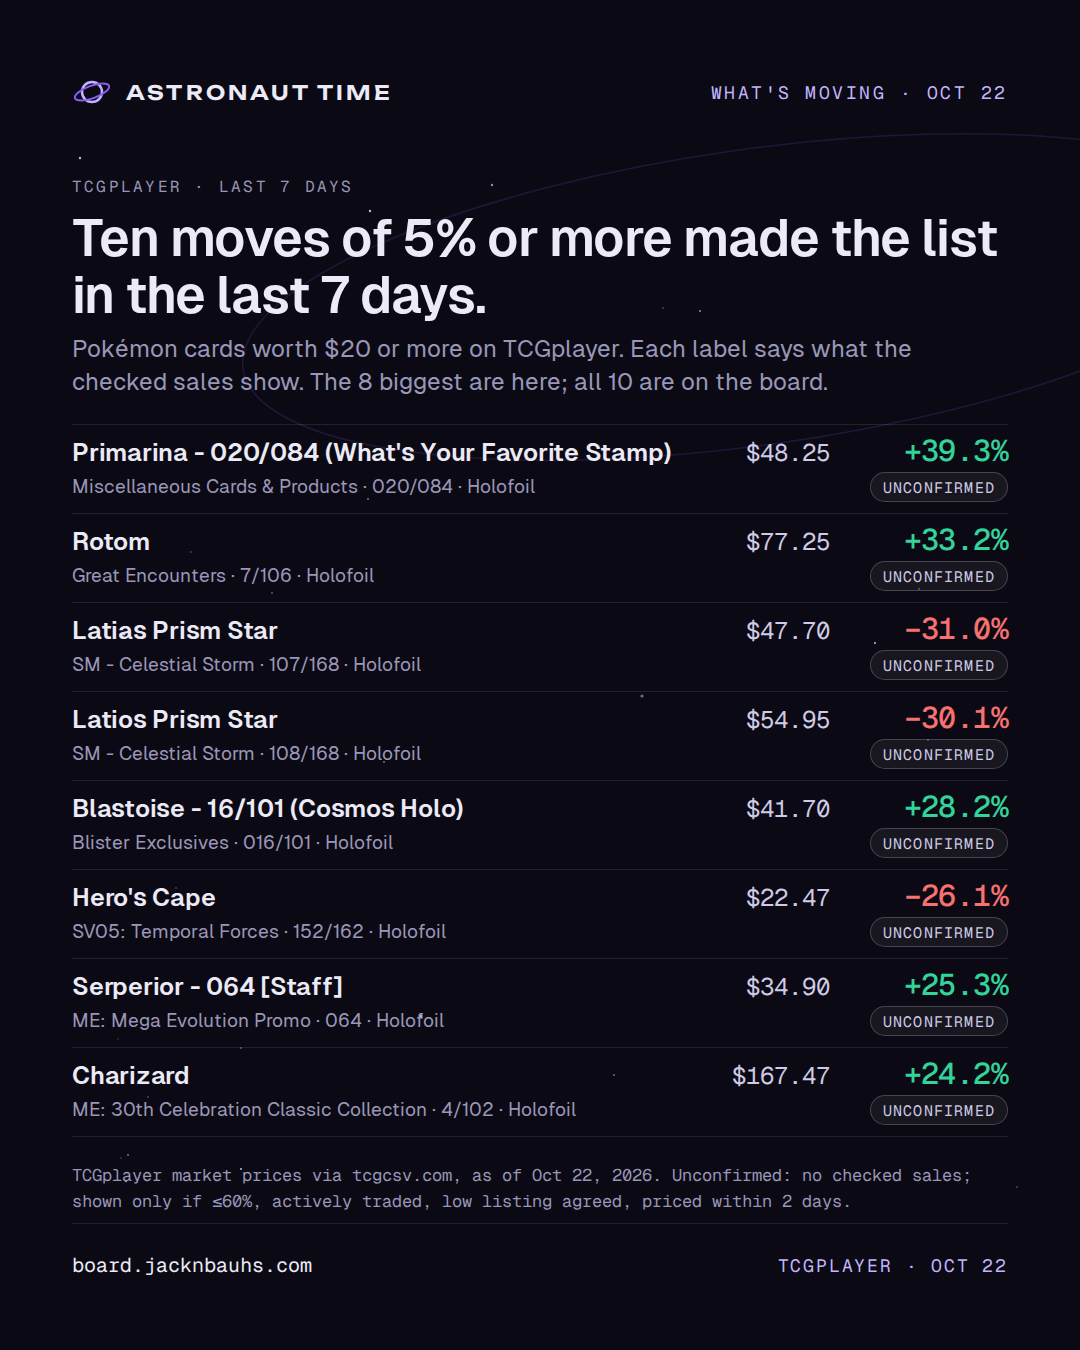
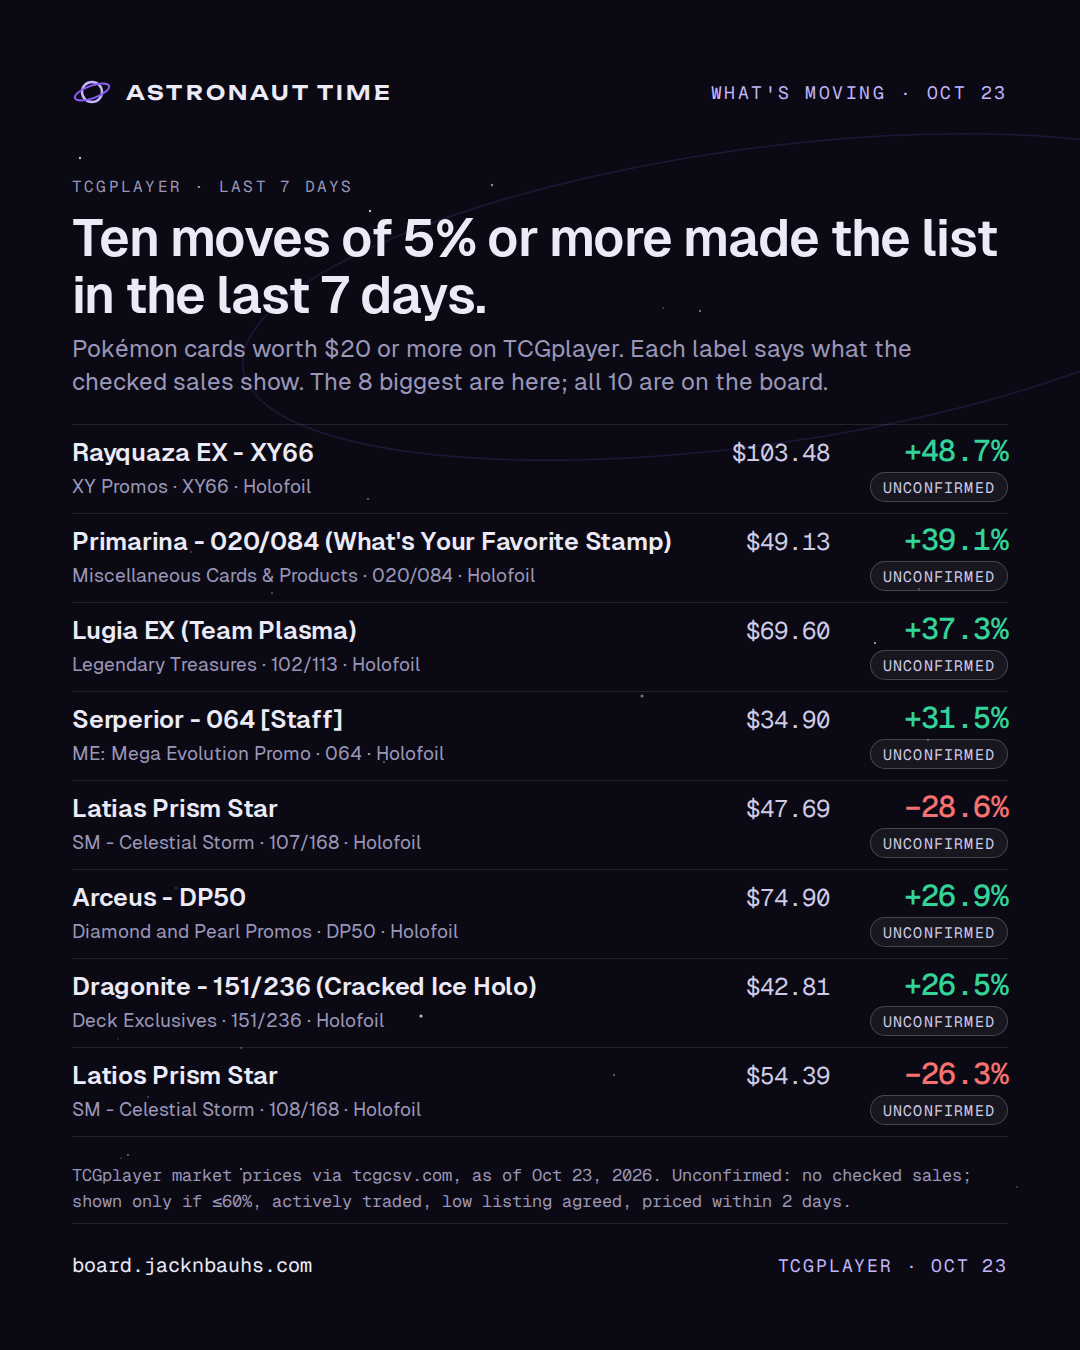
Share kit: render 2026-10-24

diff --git a/card.html b/card.html
@@ -10,14 +10,14 @@
 <meta property="og:url" content="https://board.jacknbauhs.com/card.html">
 <meta property="og:type" content="website">
 <meta property="og:site_name" content="Astronaut Time">
-<meta property="og:image" content="https://board.jacknbauhs.com/assets/og.png?v=2026-10-23">
+<meta property="og:image" content="https://board.jacknbauhs.com/assets/og.png?v=2026-10-24">
 <meta property="og:image:width" content="1200">
 <meta property="og:image:height" content="630">
 <meta property="og:image:alt" content="Mission Control by Astronaut Time: the card market, with the fake sales taken out.">
 <meta name="twitter:card" content="summary_large_image">
 <meta name="twitter:title" content="Card · Mission Control · Astronaut Time">
 <meta name="twitter:description" content="The card market, with the fake sales taken out.">
-<meta name="twitter:image" content="https://board.jacknbauhs.com/assets/og.png?v=2026-10-23">
+<meta name="twitter:image" content="https://board.jacknbauhs.com/assets/og.png?v=2026-10-24">
 <meta name="theme-color" content="#0B0A14">
 <link rel="icon" href="assets/favicon.svg" type="image/svg+xml">
 <link rel="preconnect" href="https://fonts.googleapis.com">

diff --git a/404.html b/404.html
@@ -10,14 +10,14 @@
 <meta property="og:url" content="https://board.jacknbauhs.com/">
 <meta property="og:type" content="website">
 <meta property="og:site_name" content="Astronaut Time">
-<meta property="og:image" content="https://board.jacknbauhs.com/assets/og.png?v=2026-10-23">
+<meta property="og:image" content="https://board.jacknbauhs.com/assets/og.png?v=2026-10-24">
 <meta property="og:image:width" content="1200">
 <meta property="og:image:height" content="630">
 <meta property="og:image:alt" content="Mission Control by Astronaut Time: the card market, with the fake sales taken out.">
 <meta name="twitter:card" content="summary_large_image">
 <meta name="twitter:title" content="Mission Control · Astronaut Time">
 <meta name="twitter:description" content="The card market, with the fake sales taken out.">
-<meta name="twitter:image" content="https://board.jacknbauhs.com/assets/og.png?v=2026-10-23">
+<meta name="twitter:image" content="https://board.jacknbauhs.com/assets/og.png?v=2026-10-24">
 <meta name="theme-color" content="#0B0A14">
 <link rel="icon" href="/assets/favicon.svg" type="image/svg+xml">
 <link rel="preconnect" href="https://fonts.googleapis.com">

diff --git a/index.html b/index.html
@@ -10,14 +10,14 @@
 <meta property="og:url" content="https://board.jacknbauhs.com/">
 <meta property="og:type" content="website">
 <meta property="og:site_name" content="Astronaut Time">
-<meta property="og:image" content="https://board.jacknbauhs.com/assets/og.png?v=2026-10-23">
+<meta property="og:image" content="https://board.jacknbauhs.com/assets/og.png?v=2026-10-24">
 <meta property="og:image:width" content="1200">
 <meta property="og:image:height" content="630">
 <meta property="og:image:alt" content="Mission Control by Astronaut Time: the card market, with the fake sales taken out.">
 <meta name="twitter:card" content="summary_large_image">
 <meta name="twitter:title" content="Mission Control · Astronaut Time">
 <meta name="twitter:description" content="The card market, with the fake sales taken out.">
-<meta name="twitter:image" content="https://board.jacknbauhs.com/assets/og.png?v=2026-10-23">
+<meta name="twitter:image" content="https://board.jacknbauhs.com/assets/og.png?v=2026-10-24">
 <meta name="theme-color" content="#0B0A14">
 <link rel="icon" href="assets/favicon.svg" type="image/svg+xml">
 <link rel="preconnect" href="https://fonts.googleapis.com">

diff --git a/share/out/captions.md b/share/out/captions.md
@@ -1,10 +1,10 @@
-# Captions, board data of 2026-10-23
+# Captions, board data of 2026-10-24
 
 One block per image. Caption first, alt text second. Plain facts, the source and the board link; nothing here is a buy.
 
 ## Before you post
 
-- ✅ Prices are from Oct 22, 2026.
+- ✅ Prices are from Oct 23, 2026.
 - ⚠ All 10 on the 7-day list are unconfirmed: no checked sale behind any. Keep "unconfirmed" in the post and call them price moves, not sales.
 - ⚠ All 10 on the since-yesterday list are unconfirmed: no checked sale behind any. Keep "unconfirmed" in the post and call them price moves, not sales.
 
@@ -46,6 +46,6 @@ Alt: Three calls on the record. Number 001: The 30th Celebration Booster Bundle'
 
 ## moving-2026-W43.png
 
-What's moving on TCGplayer, as of Oct 22, 2026. Ten moves of 5% or more made the list in the last 7 days. Primarina - 020/084 (What's Your Favorite Stamp) (Miscellaneous Cards & Products · 020/084 · Holofoil): $48.25, +39.3%, unconfirmed. Rotom (Great Encounters · 7/106 · Holofoil): $77.25, +33.2%, unconfirmed. Latias Prism Star (SM - Celestial Storm · 107/168 · Holofoil): $47.70, −31.0%, unconfirmed. Latios Prism Star (SM - Celestial Storm · 108/168 · Holofoil): $54.95, −30.1%, unconfirmed. Blastoise - 16/101 (Cosmos Holo) (Blister Exclusives · 016/101 · Holofoil): $41.70, +28.2%, unconfirmed. Hero's Cape (SV05: Temporal Forces · 152/162 · Holofoil): $22.47, −26.1%, unconfirmed. Serperior - 064 [Staff] (ME: Mega Evolution Promo · 064 · Holofoil): $34.90, +25.3%, unconfirmed. Charizard (ME: 30th Celebration Classic Collection · 4/102 · Holofoil): $167.47, +24.2%, unconfirmed. Unconfirmed: no checked sales; shown only if ≤60%, actively traded, low listing agreed, priced within 2 days. Source: TCGplayer market prices via tcgcsv.com, as of Oct 22, 2026. board.jacknbauhs.com
+What's moving on TCGplayer, as of Oct 23, 2026. Ten moves of 5% or more made the list in the last 7 days. Rayquaza EX - XY66 (XY Promos · XY66 · Holofoil): $103.48, +48.7%, unconfirmed. Primarina - 020/084 (What's Your Favorite Stamp) (Miscellaneous Cards & Products · 020/084 · Holofoil): $49.13, +39.1%, unconfirmed. Lugia EX (Team Plasma) (Legendary Treasures · 102/113 · Holofoil): $69.60, +37.3%, unconfirmed. Serperior - 064 [Staff] (ME: Mega Evolution Promo · 064 · Holofoil): $34.90, +31.5%, unconfirmed. Latias Prism Star (SM - Celestial Storm · 107/168 · Holofoil): $47.69, −28.6%, unconfirmed. Arceus - DP50 (Diamond and Pearl Promos · DP50 · Holofoil): $74.90, +26.9%, unconfirmed. Dragonite - 151/236 (Cracked Ice Holo) (Deck Exclusives · 151/236 · Holofoil): $42.81, +26.5%, unconfirmed. Latios Prism Star (SM - Celestial Storm · 108/168 · Holofoil): $54.39, −26.3%, unconfirmed. Unconfirmed: no checked sales; shown only if ≤60%, actively traded, low listing agreed, priced within 2 days. Source: TCGplayer market prices via tcgcsv.com, as of Oct 23, 2026. board.jacknbauhs.com
 
 Alt: What's moving: the 8 biggest of the 10 TCGplayer moves on the list in the last 7 days, each with its market price, its change and the label for what checked sales show.
